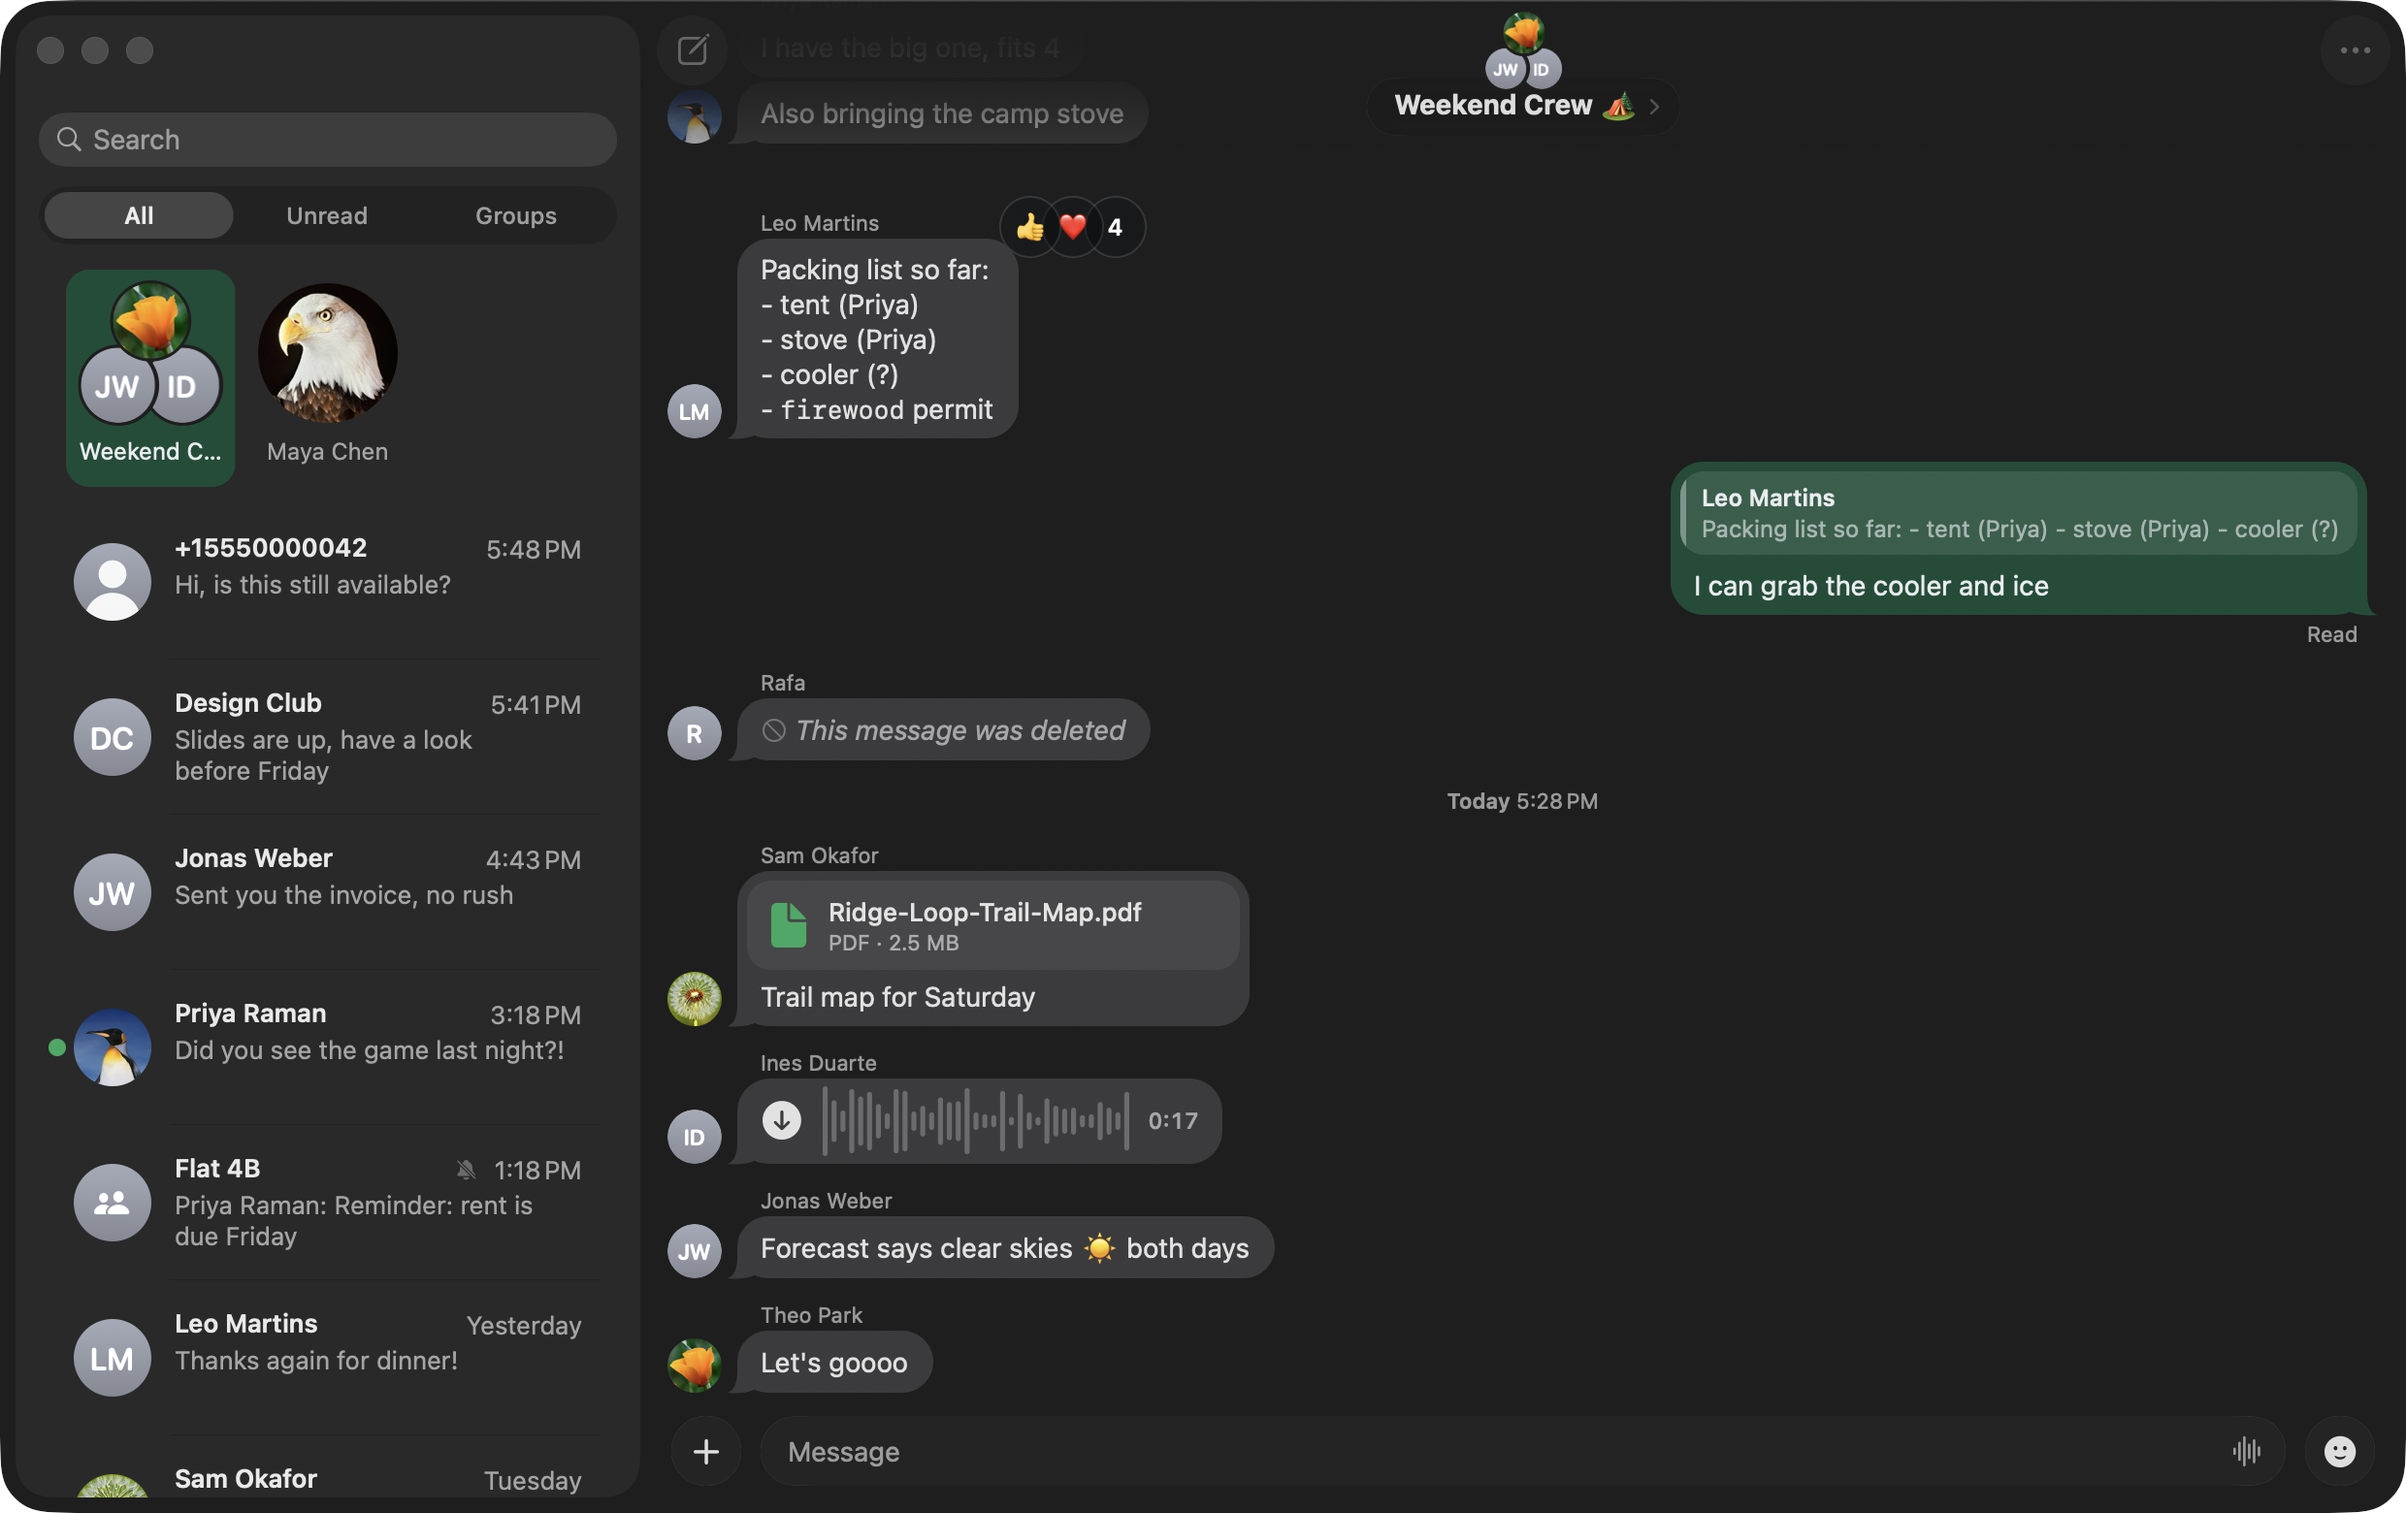
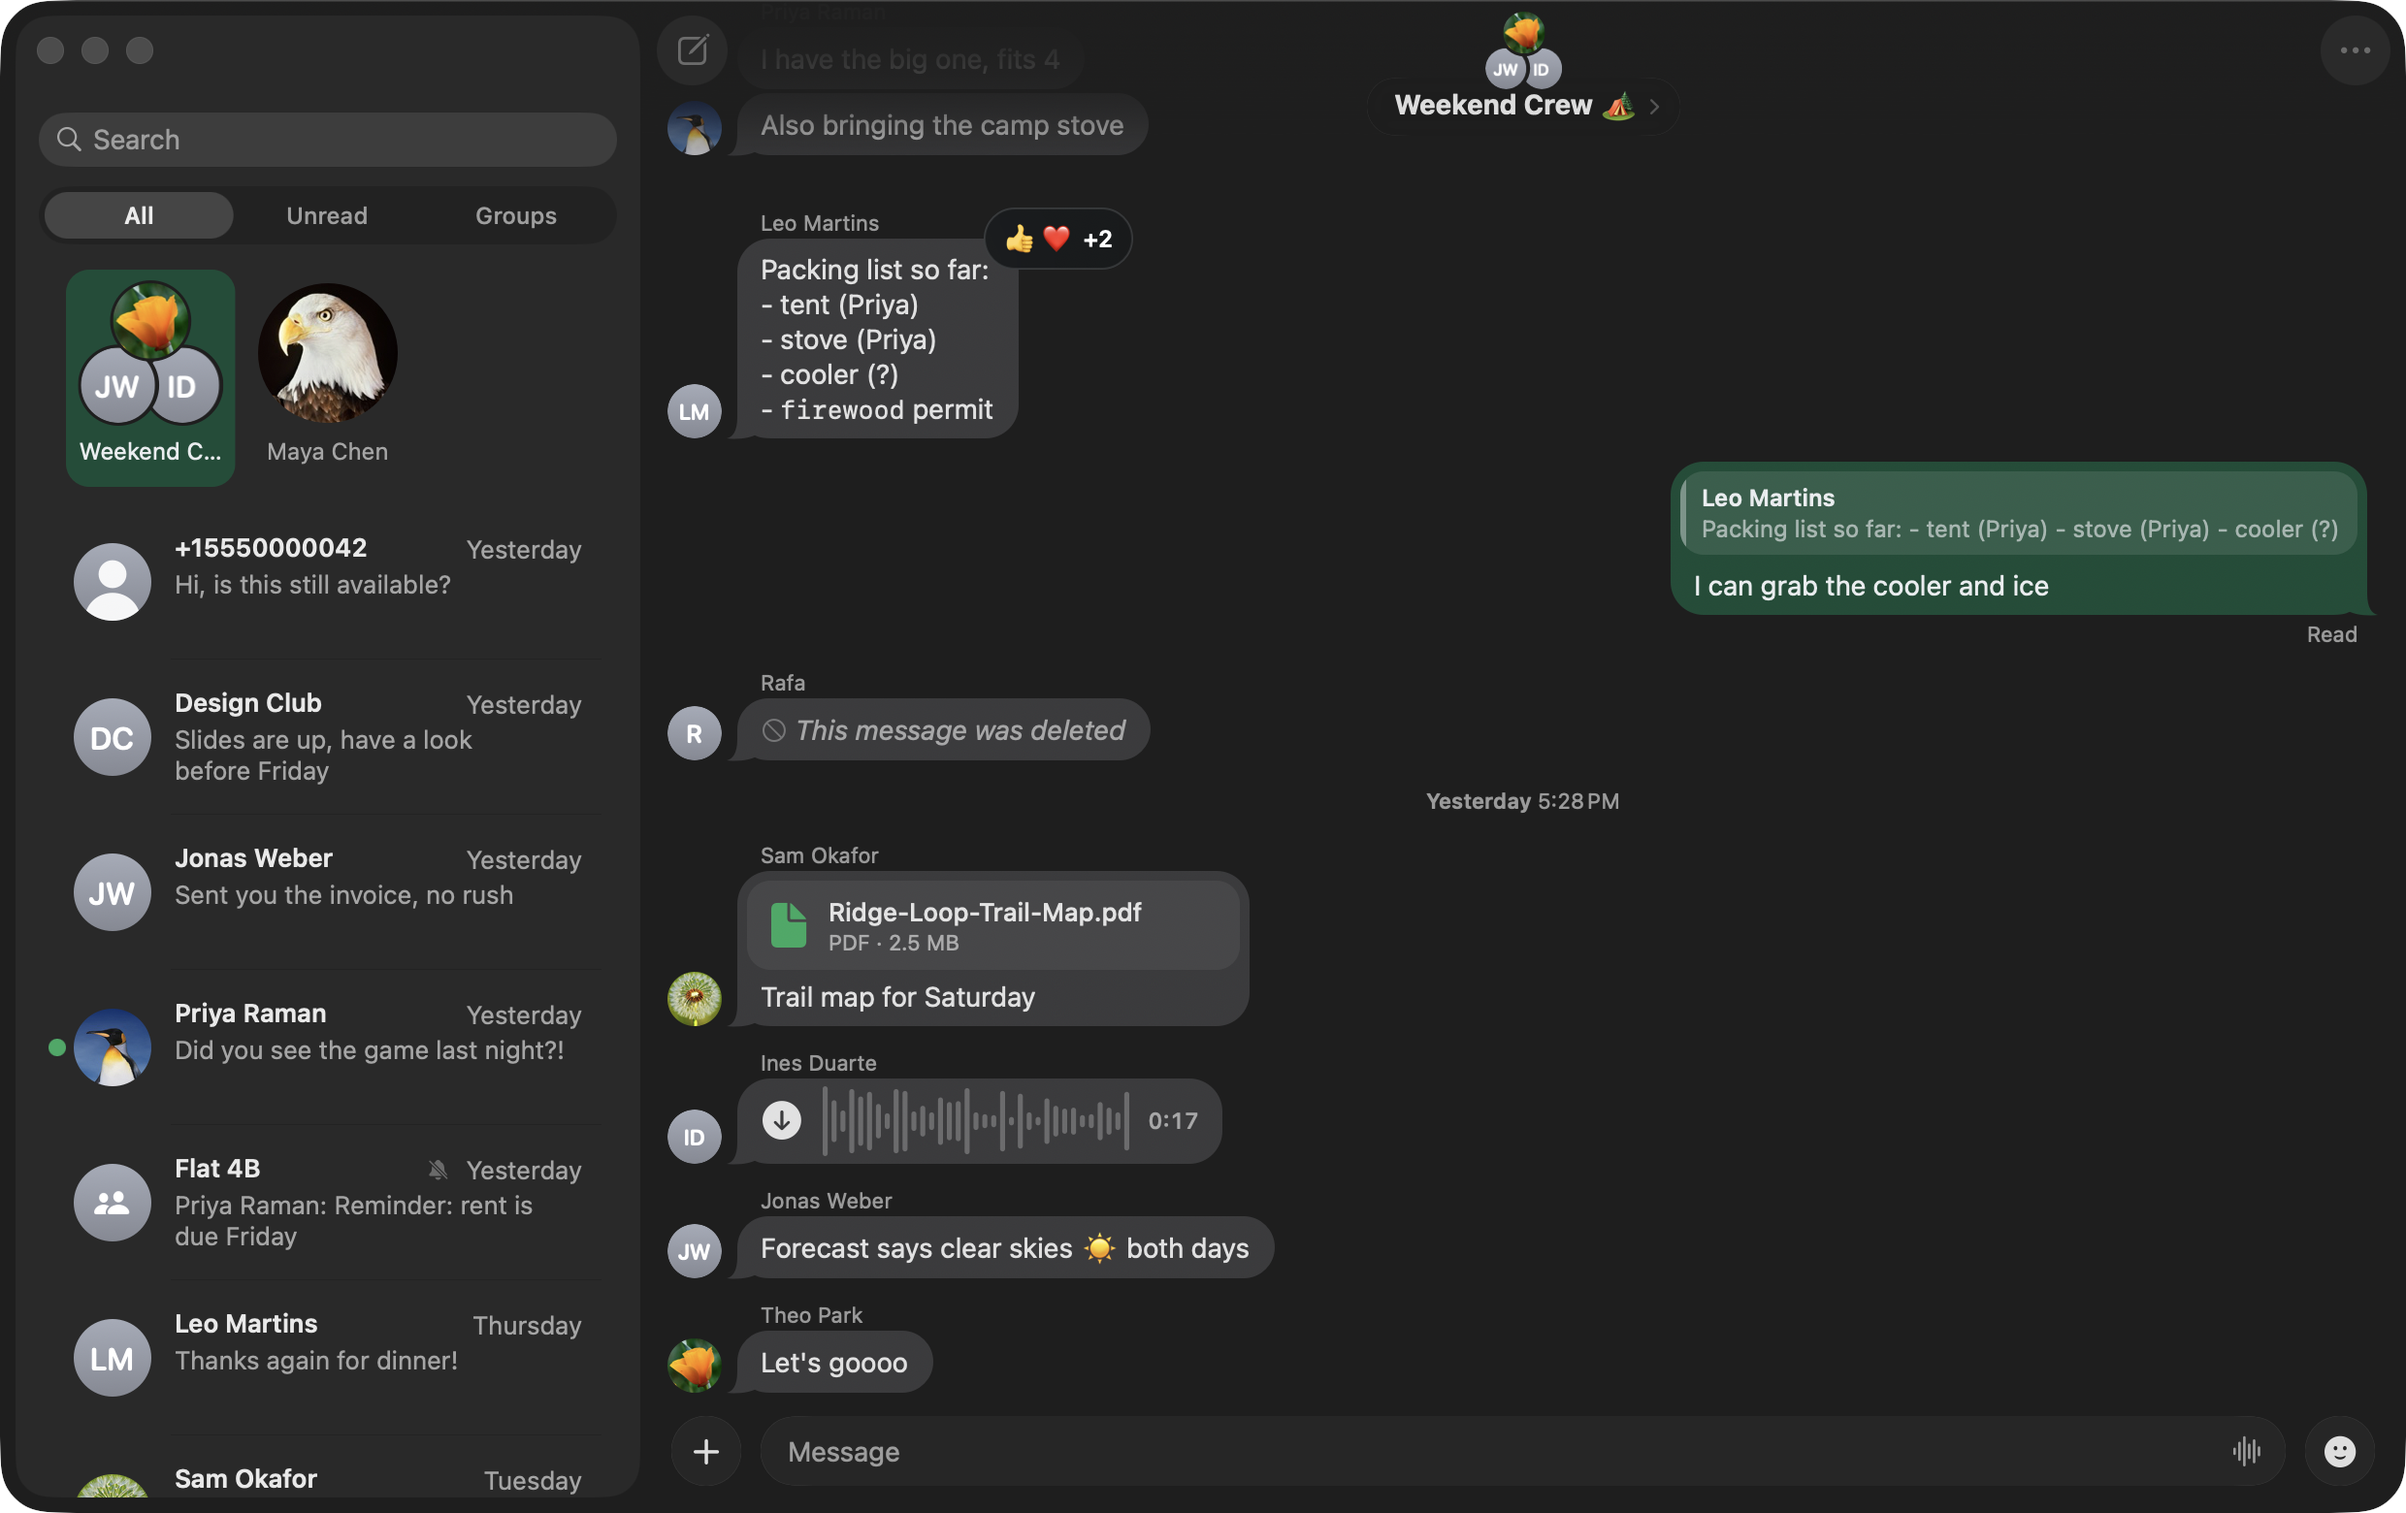
docs: README for updates, sizes and the licence; new screenshot
The screenshot shows the reaction pill. The app is 21 MB with Sparkle
(a 9.2 MB download).

diff --git a/README.md b/README.md
@@ -2,7 +2,7 @@
 
 A native Mac app for WhatsApp.
 
-It opens in under half a second with your chats already on screen, uses under 0.2% CPU while it waits, and the whole app is 22 MB. WhatsApp's own Mac app is 657 MB.
+It opens in under half a second with your chats already on screen, uses under 0.2% CPU while it waits, and the whole app is 21 MB. WhatsApp's own Mac app is 657 MB.
 
 > Unofficial. Not affiliated with WhatsApp or Meta. WhatsApp can ban accounts it sees using unofficial clients. Backchannel links to your phone the way WhatsApp Web does, over the official multi-device companion protocol (through [whatsmeow](https://github.com/tulir/whatsmeow)). That keeps the risk low, but it isn't zero.
 
@@ -16,7 +16,7 @@ It opens in under half a second with your chats already on screen, uses under 0.
 
 On first launch, scan the code with your phone (Settings › Linked Devices › Link a Device), or link with your phone number instead. Your phone stays the main device, as it does with WhatsApp Web.
 
-There's no automatic update yet; new versions appear on the Releases page.
+Versions after 0.2 update themselves. Once a day Backchannel checks for a new release and offers to install it, and Backchannel › Check for Updates… checks straight away. 0.2 and earlier can't, so download the next version by hand once.
 
 ## Fast and light
 
@@ -24,7 +24,7 @@ Measured on a 16 GB M5 MacBook, next to WhatsApp for Mac 26.37.76:
 
 | | Backchannel | WhatsApp for Mac |
 |---|---|---|
-| App size | 22 MB (an 8.3 MB download) | 657 MB |
+| App size | 21 MB (a 9.2 MB download) | 657 MB |
 | Memory, idle | 91 MB | 262 MB (195 MB for the app, plus 37 MB and 30 MB for two extensions) |
 | CPU, idle | 0.03–0.17% | 0.75–8.3% |
 | Launch to a usable window | 0.3–0.5 s, with chats, photos and the last conversation drawn | 1.0–1.6 s warm and 2.5 s cold, with placeholder photos |
@@ -60,7 +60,6 @@ It looks and moves like Messages: a glass sidebar, pinned chats as large avatars
 - Usernames, two-step verification and reporting, which whatsmeow doesn't support.
 - Syncing a few things that only live on this Mac: chat themes, locked chats, and stickers you favourite here.
 - Intel Macs and macOS before 26.
-- Updating itself. Download new versions from Releases.
 
 And it's unofficial; see the note at the top.
 
@@ -84,7 +83,9 @@ Coming from a build named WA: the first launch quits if WA is still running, the
 make release VERSION=0.2.0
 ```
 
-That archives the app, signs it with Developer ID through Xcode's account (the Apple ID signed in under Xcode › Settings › Accounts; Xcode manages the certificate in the cloud, so there's no certificate file, password or secret), sends it to Apple's notary service through the same account, staples the ticket, packs the branded DMG, checks it with Gatekeeper, and publishes `v0.2.0` on GitHub with the DMG and its SHA-256. The version comes from `VERSION`, the build number from the commit count. It releases only main as pushed with a clean tree; `PUBLISH=0 make release VERSION=0.2.0` does everything except publishing. The hardened runtime uses the entitlements in `app/Backchannel.entitlements` (camera, microphone and Photos).
+That archives the app, signs it with Developer ID through Xcode's account (the Apple ID signed in under Xcode › Settings › Accounts; Xcode manages the certificate in the cloud, so there's no certificate file, password or secret), sends it to Apple's notary service through the same account, staples the ticket, packs the branded DMG, checks it with Gatekeeper, signs the DMG for updates and writes `appcast.xml`, and publishes `v0.2.0` on GitHub with the DMG, its SHA-256 and the appcast. The version comes from `VERSION`, the build number from the commit count. It releases only main as pushed with a clean tree; `PUBLISH=0 make release VERSION=0.2.0` does everything except publishing. The hardened runtime uses the entitlements in `app/Backchannel.entitlements` (camera, microphone and Photos).
+
+Installed copies update through [Sparkle](https://sparkle-project.org). Once a day they read `appcast.xml` from the latest release, and they install a download only if its EdDSA signature matches the public key in `app/Sources/Info.plist` (`SUPublicEDKey`). The private key is in the login keychain, made once with Sparkle's `generate_keys --account backchannel`, and the first release asks whether `sign_update` may use it. Keep a copy somewhere safe (`generate_keys --account backchannel -x <file>`): without it, installed copies can't be updated.
 
 Actions › Test build › Run workflow (`.github/workflows/release.yml`, a `macos-26` runner with Xcode 26.3) makes an ad-hoc signed test build on a clean machine and keeps it as an artifact for a week.
 
@@ -110,3 +111,7 @@ python3 tools/make_preview_db.py build/preview
 WA_PREVIEW_DIR=$PWD/build/preview build/Backchannel.app/Contents/MacOS/Backchannel          # synthetic chats, no network
 WA_PREVIEW_DEMO=1 WA_SLOWMO=6 WA_PREVIEW_DIR=...                           # scripted send/typing/reply/tapback, 6× slow motion
 ```
+
+## Licence
+
+GPL-3.0; see [LICENSE](LICENSE). Backchannel links [libsignal for Go](https://github.com/tulir/libsignal-protocol-go), which is GPL-3.0, so the app as a whole is under the same licence. Everything else it's built on is listed with its licence in About Backchannel › Acknowledgements.
